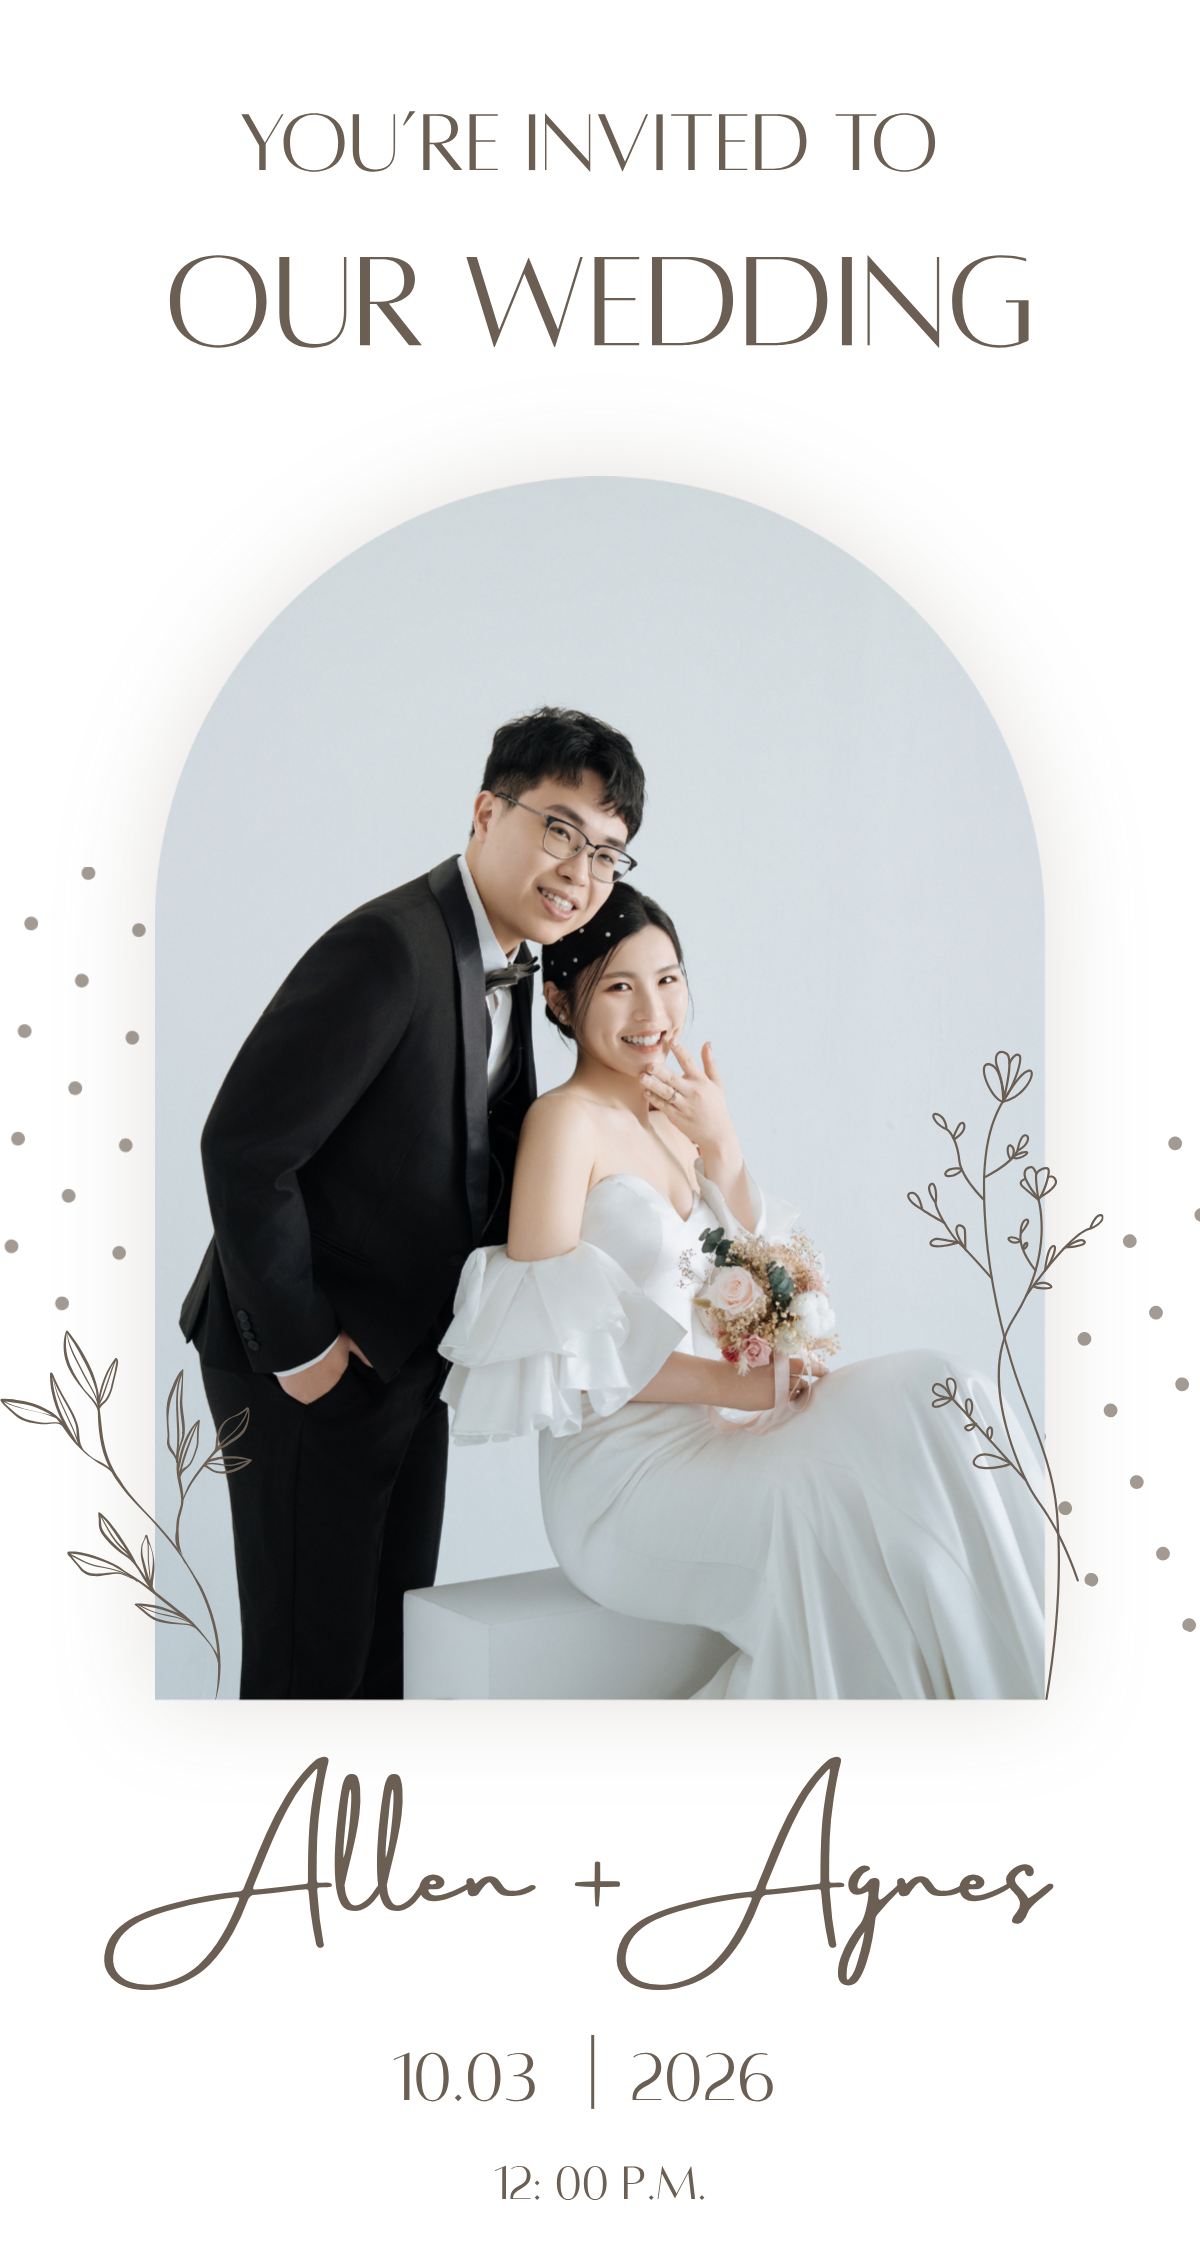
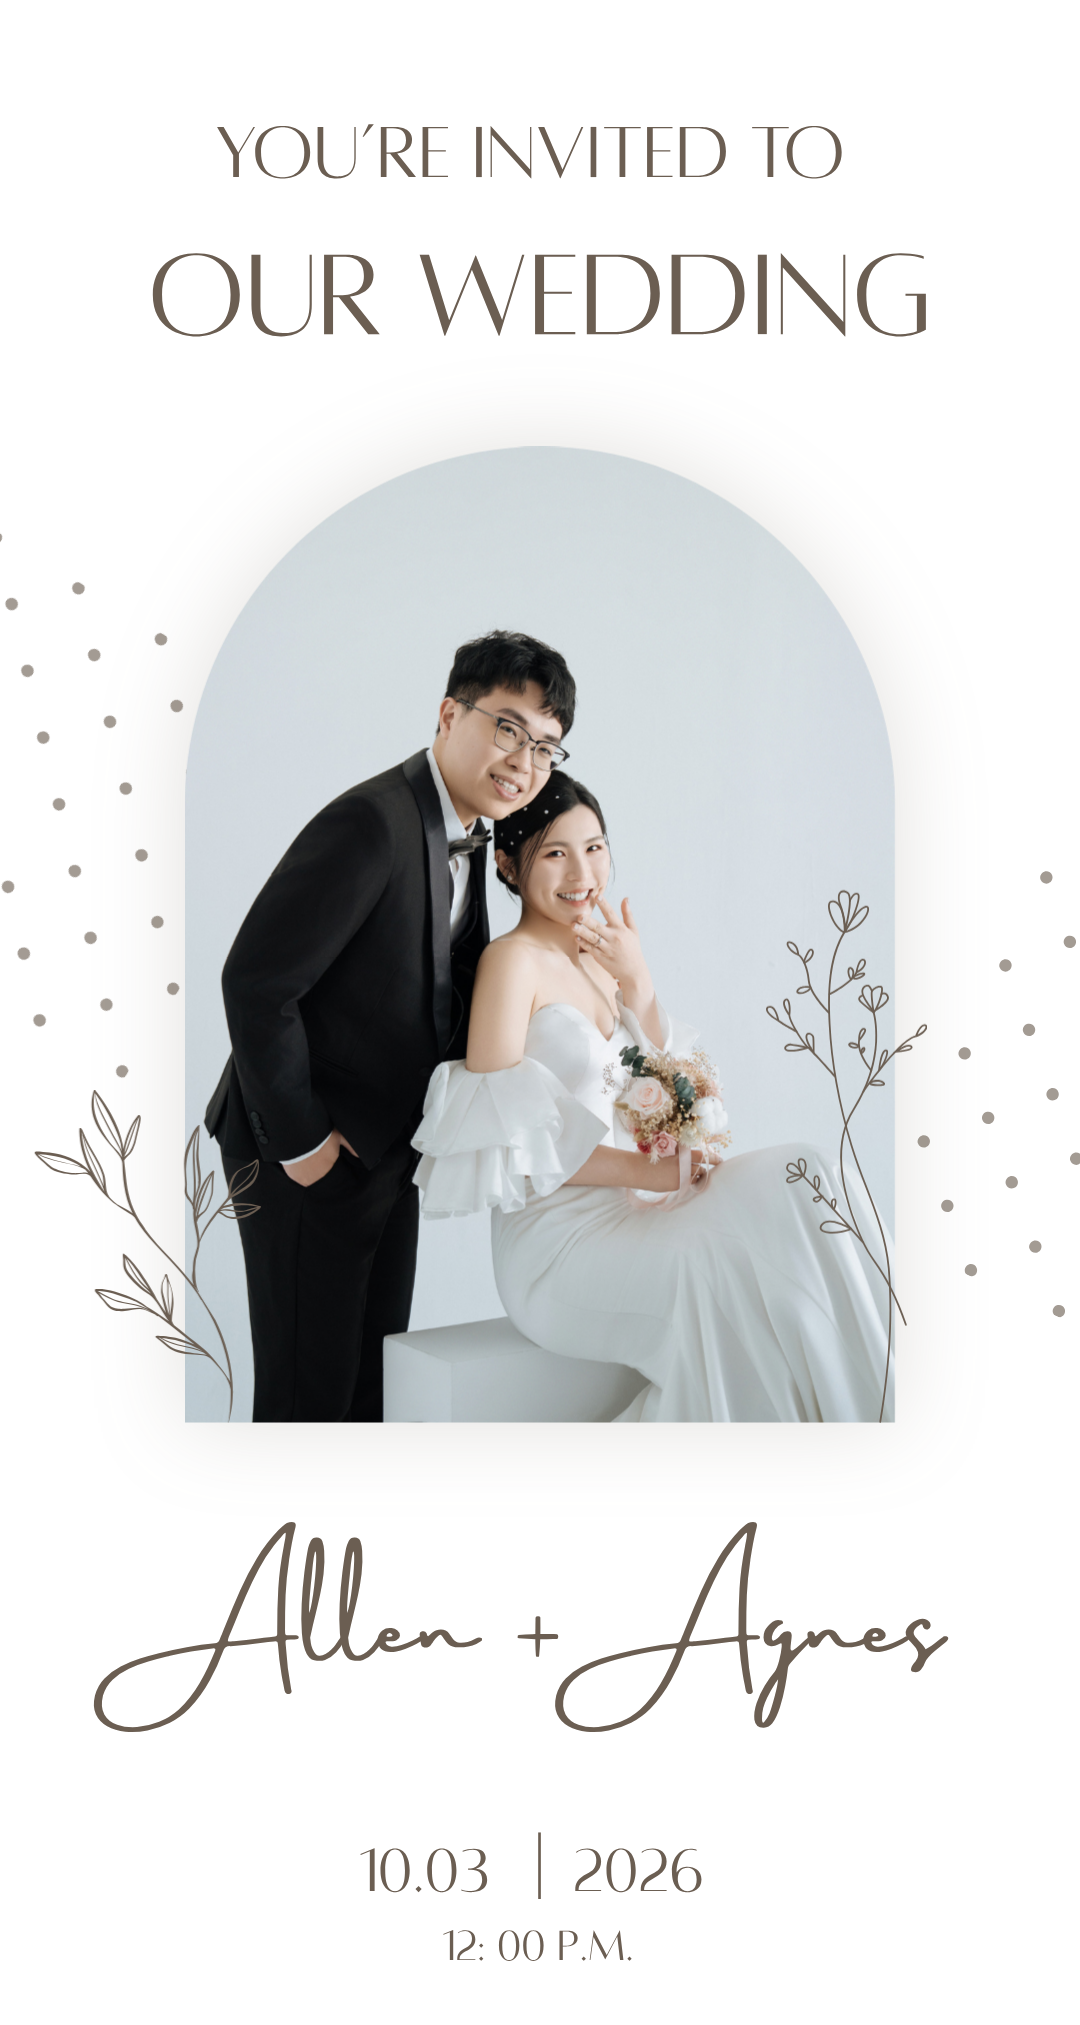
調整圖片

diff --git a/src/App.tsx b/src/App.tsx
@@ -1,6 +1,6 @@
-import { useEffect, useState, Suspense, lazy } from "react"
-import { Routes, Route, useNavigate } from "react-router-dom"
-import liff from "@line/liff"
+import { useEffect, Suspense, lazy } from "react"
+import { Routes, Route } from "react-router-dom"
+// import liff from "@line/liff"
 import { callFunction } from "./utils/callFunction"
 import { HeaderComponents } from "./components/HeaderComponents"
 import { FooterComponents } from "./components/FooterCpmponents"
@@ -18,8 +18,8 @@ const Info = lazy(() => import("./pages/InfoPage").then(m => ({ default: m.Info 
 const WheelGamePage = lazy(() => import("./pages/WheelGamePage").then(m => ({ default: m.WheelGamePage })))
 
 function App() {
-  const navigate = useNavigate()
-  const [ready, setReady] = useState(false)
+  // const navigate = useNavigate()
+  // const [ready, setReady] = useState(false)
   useEffect(() => {
     const initLiff = async () => {
       const localLineUserId = localStorage.getItem("lineUserId")
